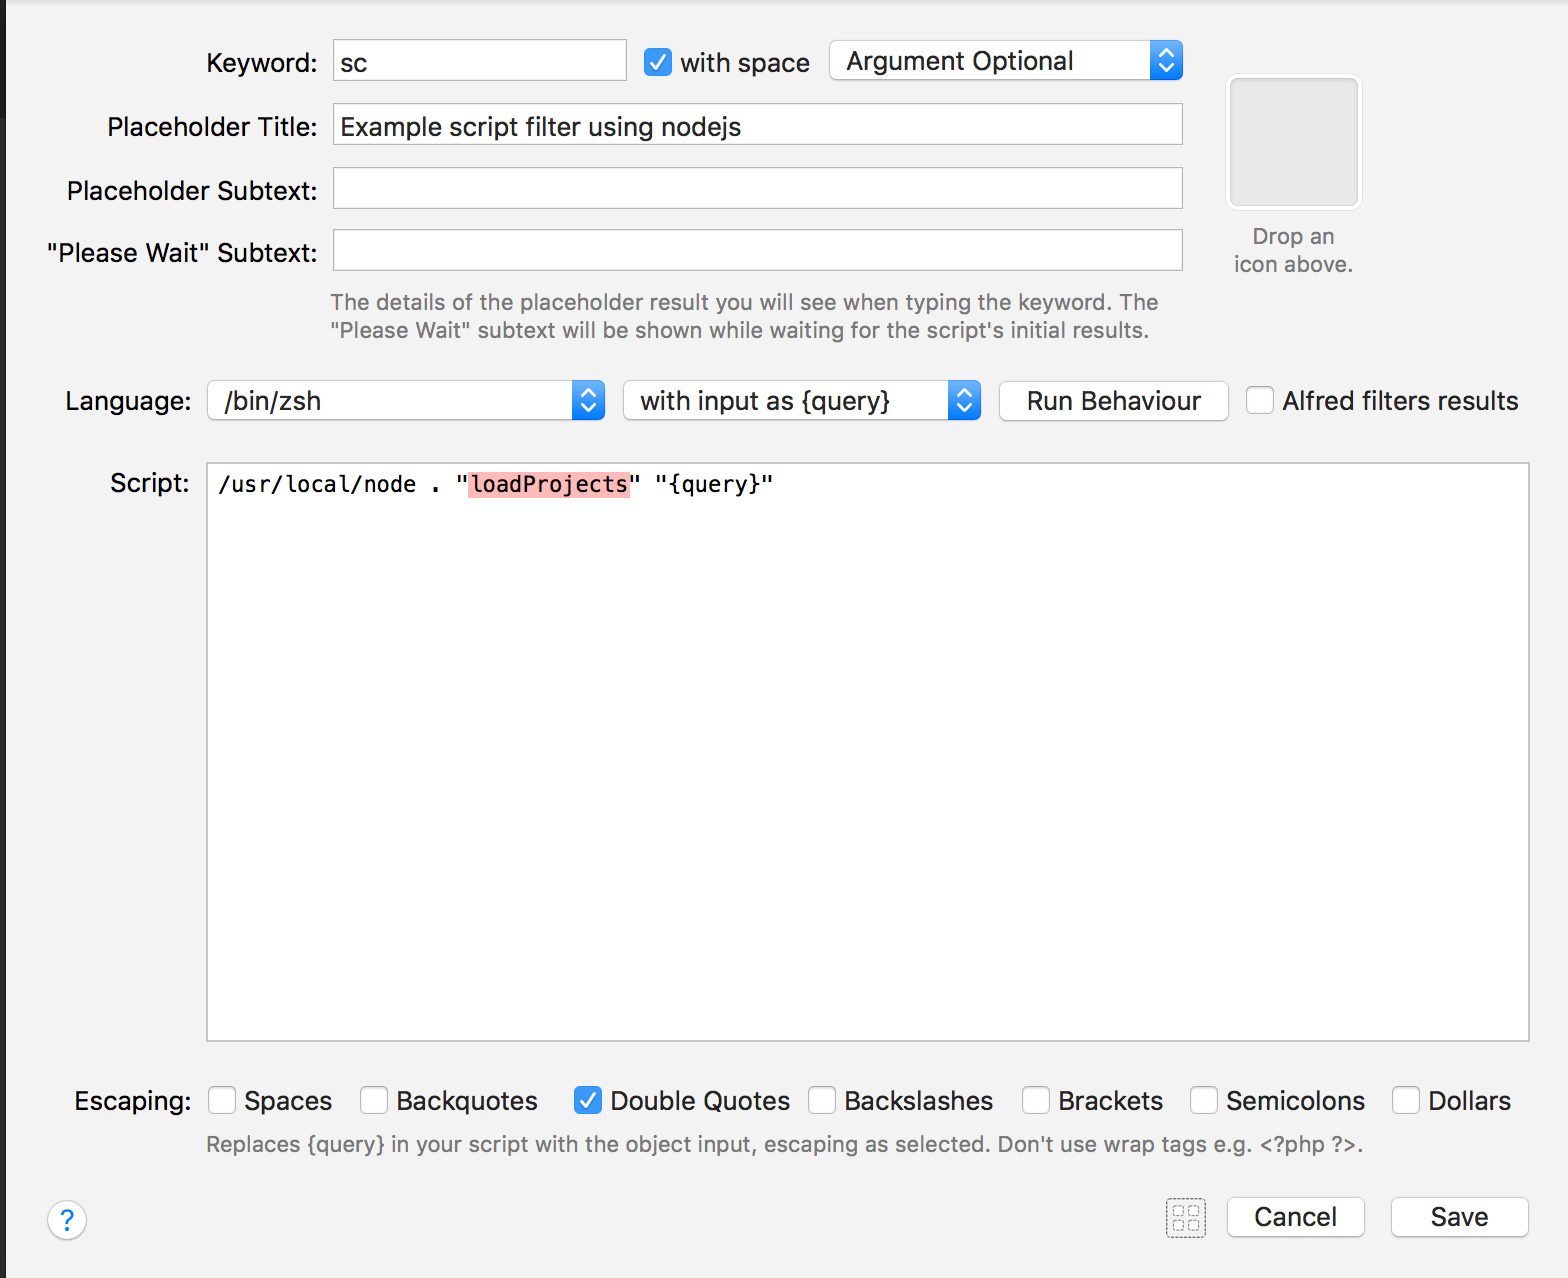
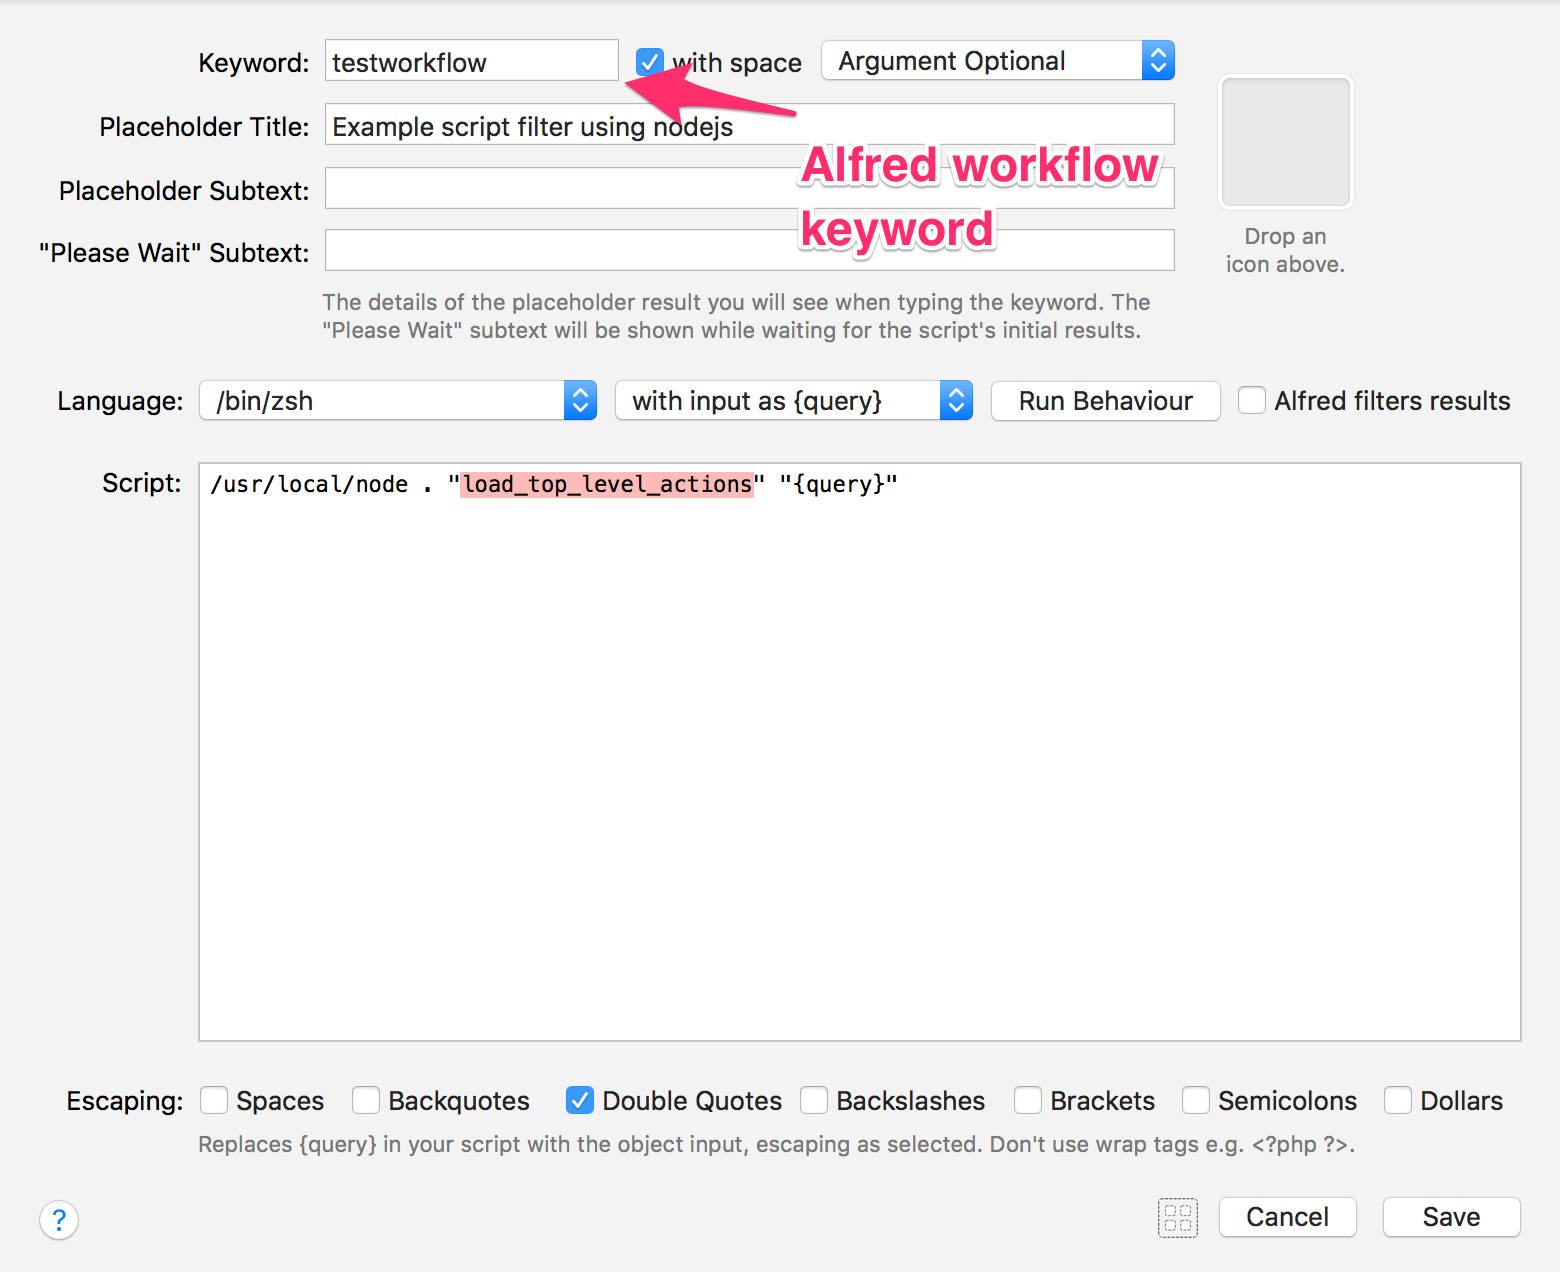
- update readme file - upgrade dependencies package version

diff --git a/src/utilities.js b/src/utilities.js
@@ -1,5 +1,5 @@
 const fuzzy = require('fuzzy');
-const applescript = require('node-osascript');
+const appleScript = require('node-osascript');
 const exec = require('child_process').exec;
 const utilLib = require("util");
 
@@ -46,7 +46,7 @@ module.exports = {
          * @param handler: function(err, result)
          */
         execute: function (script, handler) {
-            applescript.execute(script, handler);
+            appleScript.execute(script, handler);
         },
 
         /**
@@ -56,7 +56,7 @@ module.exports = {
          * @param handler: function(err, result, raw)
          */
         executeFile: function (path, varibale, handler) {
-            applescript.executeFile.apply(this, arguments);
+            appleScript.executeFile.apply(this, arguments);
         }
     },
 
@@ -176,7 +176,7 @@ module.exports = {
         }
     },
 
-    memorize: (keyCache, ttl, func, isDebug) => {
+    memorizePromise: (keyCache, ttl, func, isDebug) => {
         ttl = ttl || true; // true means 24 caching
 
         const dataFromCache = storage.get(keyCache);

diff --git a/docs/utilities.md b/docs/utilities.md
@@ -1,44 +1,66 @@
-### Utils - Helper functions
 Some utilities
 
-* filter(query, list, keyBuilder) : filter list of object using fuzzy matching
-    * query
-    * list
-    * keyBuilder : function to build key to compare from items in list
+
+### `debug()` 
+Show log message by using `console.warn` since `console.log` is used to log JSON string only.
+The log message is not printed in `testing` environment.
+
+
+### `filter(query, list, keyBuilder)`
+
+Filter list of object using fuzzy matching. Example: 
 
 ```js
-var utils = AlfredNode.utils;
-// filter array of string/object using fuzzy matching
-utils.filter("a", ["a", "b", "c"], function(item){return item});
-// => return ["a"]
-utils.filter("pen", [{name: "pencil"}, {name: "pen"}, {name: "book"}], function(item){ return item.name});
-// => return [{name: "pencil"}, {name: "pen"}]
+const { utils } = require('alfred-workflow-nodejs-next');
+
+// filter array of string by using fuzzy matching
+utils.filter('a', ['a', 'b', 'c'], (item) => item);
+// => return ['a']
+
+// filter array of object by using fuzzy matching
+utils.filter('pen', [
+    { name: 'pencil' }, 
+    { name: 'pen' }, 
+    { name: 'book' }
+], (item) => item.name);
+// => return [{ name: 'pencil' }, { name: 'pen' }]
 ```
 
-* generateVars: set variables via script output (see "Setting variables" section above for usage)
-* envVars: methods for enviroment variables
-    * set(key, value) - value can be string or object. If value is object, it is stored as json string
-    * get(key) - if stored value is object, this method will parse json string to object and return
-* wfVars: methods for workflow variables
-    * set(key, value, [callback])
-        * key: variable name
-        * value: need to be string **(object value is not supported)**
-        * callback: callback(error) - optional
-    * get(key, callback)
-        * key: variable name
-        * callback: callback(error, value)
-    * remove(key, callback)
-        * key: variable name
-        * callback: callback(error) - optional
-    * clear(key, callback) - **Clear all** wf variables
-        * key: variable name
-        * callback: callback(error) - optional
 
-### Icons - Some built-in icons
-Icons are from "/System/Library/CoreServices/CoreTypes.bundle/Contents/Resources"
+### `memorizePromise(keyCache, ttl, func, isDebug)`
+
+Help to cache result of a promise. Example, you have a promise to get a data like this: 
 
 ```js
-AlfredNode.ICONS.ERROR
-AlfredNode.ICONS.INFO
+fetchDataFromServer(url).then((data) => {
+    // do something with data
+});
 ```
+
+We can use `memorizePrmise` to help to save cached data to local which is resolved by a promise.
+
+```js
+const { utils } = require('alfred-workflow-nodejs-next');
+const ONE_M = 1000 * 60;
+const _30_MINUTES = ONE_M * 30;
+
+utils.memorizePrmise('fetchDataFromServer_cache_key', _30_MINUTES, () => {
+    return fetchDataFromServer(url);
+}).then((data) => {
+    // data may be gotten from cache instead of from server. 
+});
+```
+
+## Icons - Some built-in icons
+
+Icons are from `/System/Library/CoreServices/CoreTypes.bundle/Contents/Resources`
+
+```js
+const { constants } = require('alfred-workflow-nodejs-next');
+
+// constants.ICONS.ERROR
+// constants.ICONS.INFO 
+// ...
+```
+
 See more in `src/constants.js`

diff --git a/docs/workflow-items.md b/docs/workflow-items.md
@@ -7,7 +7,7 @@ The bash command has 2 input: `action_name` and `query`:
 
 
 ```shell
-# should use full path of `node`. I don't know how to use `node` global in Alfred Script Filter yet. 
+# Must use full path of `node`. I don't know how to use `node` global in Alfred Script Filter yet. 
 # Please suggest me if you have a better solution
 /usr/local/bin/node main.js "action_name" "query"
 ```
@@ -16,7 +16,7 @@ The bash command has 2 input: `action_name` and `query`:
 ```js
 const { Workflow, Item } = require('alfred-workflow-nodejs-next');
 
-(function main() {
+(function initMyWorkflow() {
     const workflow = new Workflow();
     workflow.setName('example-alfred-workflow-using-nodejs');
 
@@ -38,34 +38,35 @@ const { Workflow, Item } = require('alfred-workflow-nodejs-next');
 
 ## A Workflow example scenario:
 
-- Open Alfred and type main workflow name shortcut `testworkflow`
-    + => There are 2 top level feedbacks are generated: `Feedback A` and `Feeback B`
-    + => Use arrow key to navigate to `Feedback B` and press `TAB` or `ENTER`
+- Open Alfred and type workflow shortcut, ex: `testworkflow`
+    + => Alfred shows 2 top level feedbacks/actions in UI: `Feedback A` and `Feeback B`
+    + => use arrow key to navigate to `Feedback B` row and press `TAB` or `ENTER` to choose that action.
     + => Alfred search bar will now become `Feedback B ➤ `
     + => and display sub action items of `Feedback B`: `Item 1 of Feedback B` and `Item 2 of Feedback B`
-    + => Execute a sub item by using `TAB` or `ENTER` key when select a sub action item
+    + => Execute a sub action item by using `TAB` or `ENTER` key
 
-### Register listener for action name `testworkflow`
+Here are some steps to implement above example scenario: 
 
-- The action name `testworkflow` will generate 2 top level items: `Feedback A` and `Feeback B`
+### Register listener for Workflow shortcut name `testworkflow`
+
+- The action name `load_top_level_actions` will generate 2 top level items: `Feedback A` and `Feeback B`
 - Top level action usually has arg data so that sub action can know what data of parent action passes to.
-- So it is not necessary if sub action has arg data 
   
 ```js
-workflow.onAction('testworkflow', function(query) {
-    // generate feeback A
+workflow.onAction('load_top_level_actions', function(query) {
+    // generate feedback A
     const itemA = new Item({
         title: 'Feedback A',
-        subtitle: 'Press tab to get menu items',
+        subtitle: 'Press tab/enter to get menu items',
         arg: { alias: 'X' }, // we can set data to top level item to use later to build sub items
-        hasSubItems: true // set this to true to tell that this feedback has sub Items
+        hasSubItems: true // set this to true to tell that this feedback has sub Items, `valid` prop is false when `hasSubItems` is true
     });
     workflow.addItem(itemA);
 
-    // generate feeback B
+    // generate feedback B
     const itemB = new Item({
         title: 'Feedback B',
-        subtitle: 'Press tab to get menu items',
+        subtitle: 'Press tab/enter to get menu items',
         arg: { alias: 'Y' }, // we can set data to top level item to use later to build sub items
         hasSubItems: true // set this to true to tell that this feedback has sub Items
     });

diff --git a/README.md b/README.md
@@ -27,7 +27,7 @@ yarn test-watch
 
 ## Docs
 
-* [docs/Workflow & Item](docs/workflow.md) - Build and generate Alfred workflow feedback
+* [docs/Workflow & Item](docs/workflow-items.md) - Build and generate Alfred workflow feedback
 * [docs/Utilities](docs/utilities.md)  - Helper to filter arrays, run applesripts, etc...
 * [docs/Storage](docs/storage.md) - Helper to CRUD temporary / permanent(settings) data.
 
